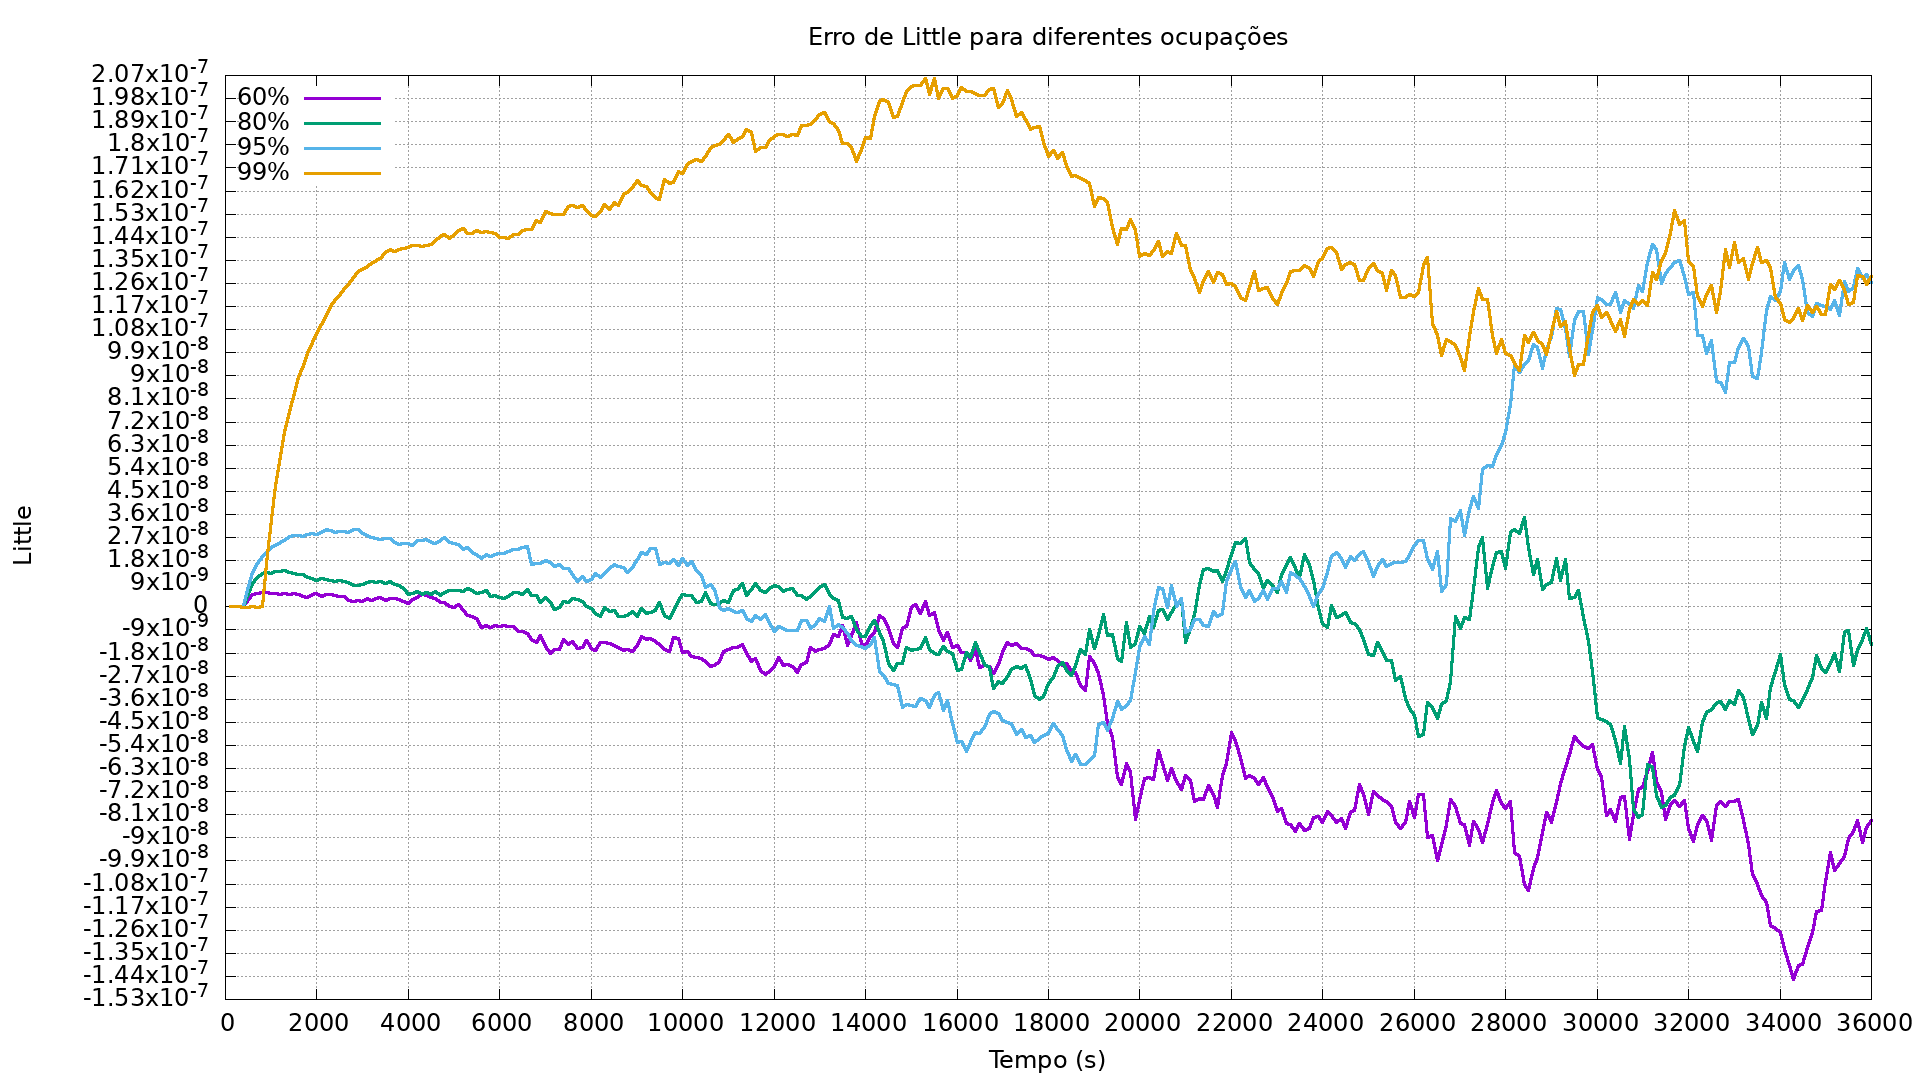
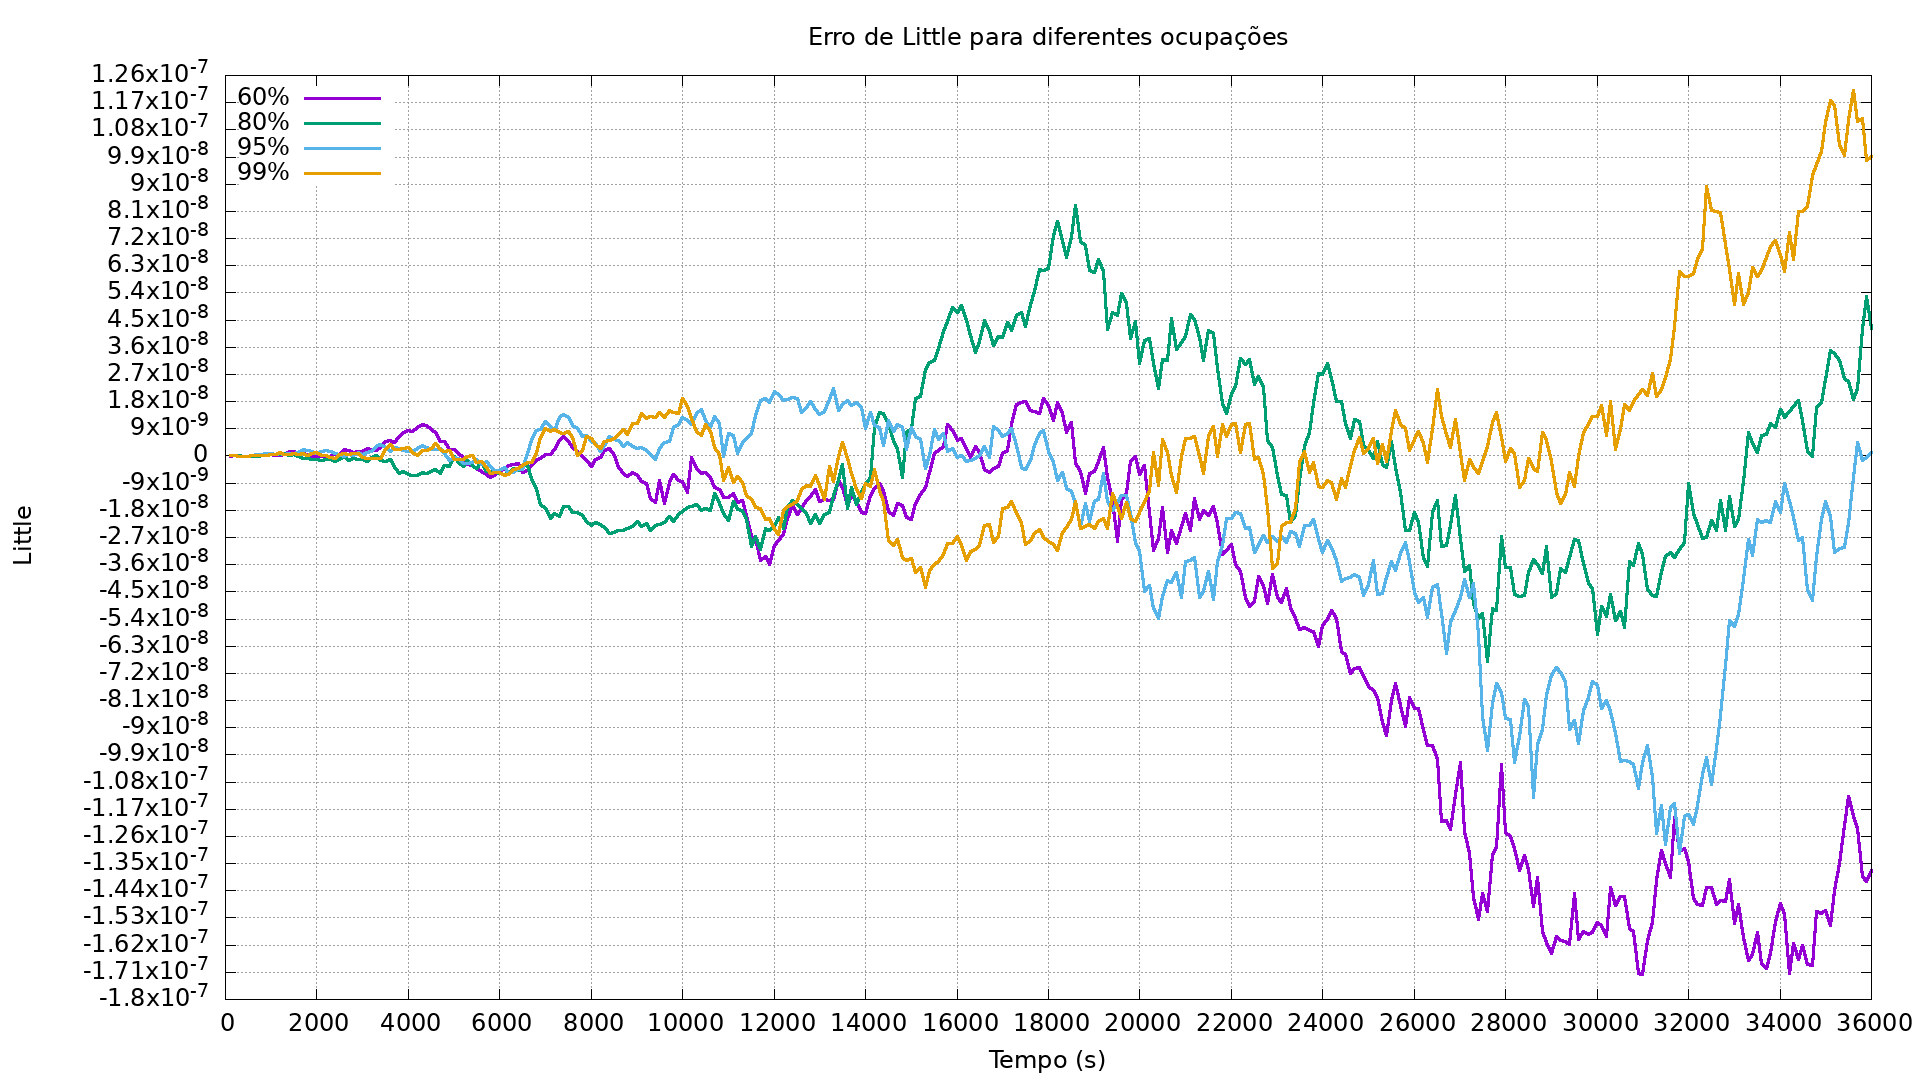
bugfix: cálculo  de serviço pelo atraso de transmissão e tempo decorrido

diff --git a/Simulador 2 - Parte 1/simulacao.c b/Simulador 2 - Parte 1/simulacao.c
@@ -178,10 +178,8 @@ void resolve(float percentual_calculado, grafico *grafico)
     // Índice de controle dos arrays da struct de dados
     int index = 0;
 
-
-
-    //EDIT: taxas médias do link para cada ocupação, quanto maior a largura, menos ocupado
-    int link[4] = {73500, 55125, 46421, 44545};
+    // EDIT: taxas médias do link para cada ocupação, quanto maior a largura, menos ocupado
+    double link[4] = {73500, 55125, 46421, 44545};
 
     // Looping de simulação
     while (tempo_decorrido <= tempo_simulacao)
@@ -201,21 +199,31 @@ void resolve(float percentual_calculado, grafico *grafico)
             {
                 double L = calculo_l(), log_aleatorio = log(aleatorio());
 
+                // EDIT: calculo do atraso de transmissão
+                if (percentual_calculado == (float)0.006000)
+                {
 
-                //EDIT: calculo do atraso de transmissão
-                if(percentual_calculado == 0.006){
-                    atraso_transmissao = L/link[0];
-                }else if (percentual_calculado == 0.008){
-                    atraso_transmissao = L/link[1];
+                    atraso_transmissao = L / link[0];
                 }
-                else if (percentual_calculado == 0.0095){
-                    atraso_transmissao = L/link[2];
+                else if (percentual_calculado == (float)0.008000)
+                {
+
+                    atraso_transmissao = L / link[1];
                 }
-                else if (percentual_calculado == 0.0099){
-                    atraso_transmissao = L/link[3];
+                else if (percentual_calculado == (float)0.009500)
+                {
+
+                    atraso_transmissao = L / link[2];
+                }
+                else if (percentual_calculado == (float)0.009900)
+                {
+
+                    atraso_transmissao = L / link[3];
                 }
 
-                servico = tempo_decorrido + tempo_medio_servico + atraso_transmissao;
+                //  printf("atraso: %.20f", atraso_transmissao);
+
+                servico = tempo_decorrido + atraso_transmissao;
 
                 soma_tempo_servico += servico - tempo_decorrido;
             }
@@ -240,27 +248,36 @@ void resolve(float percentual_calculado, grafico *grafico)
             // Decréscimo da fila
             fila--;
 
-            if(fila){
+            if (fila)
+            {
                 double L = calculo_l(), log_aleatorio = log(aleatorio());
 
-                //EDIT: calculo do atraso de transmissão
-                if(percentual_calculado == 0.006){
-                    atraso_transmissao = L/link[0];
-                }else if (percentual_calculado == 0.008){
-                    atraso_transmissao = L/link[1];
-                }
-                else if (percentual_calculado == 0.0095){
-                    atraso_transmissao = L/link[2];
-                }
-                else if (percentual_calculado == 0.0099){
-                    atraso_transmissao = L/link[3];
-                }
+                // EDIT: calculo do atraso de transmissão
+                if (percentual_calculado == (float)0.006000)
+                {
 
-                servico = tempo_decorrido + tempo_medio_servico + atraso_transmissao;
+                    atraso_transmissao = L / link[0];
+                }
+                else if (percentual_calculado == (float)0.008000)
+                {
+
+                    atraso_transmissao = L / link[1];
+                }
+                else if (percentual_calculado == (float)0.009500)
+                {
+
+                    atraso_transmissao = L / link[2];
+                }
+                else if (percentual_calculado == (float)0.009900)
+                {
+
+                    atraso_transmissao = L / link[3];
+                }
+                // printf("atraso: %.20f", atraso_transmissao);
+                servico = tempo_decorrido + atraso_transmissao;
 
                 soma_tempo_servico += servico - tempo_decorrido;
             }
-                
 
             // Cálculos de Little
             e_n.soma_areas += (tempo_decorrido - e_n.tempo_anterior) * e_n.no_eventos;
